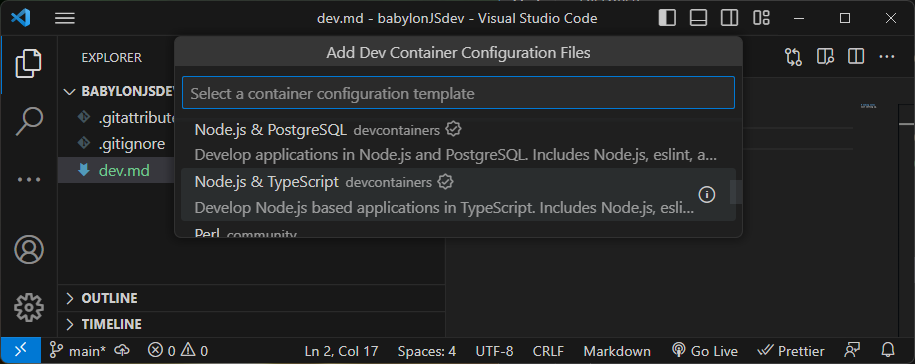
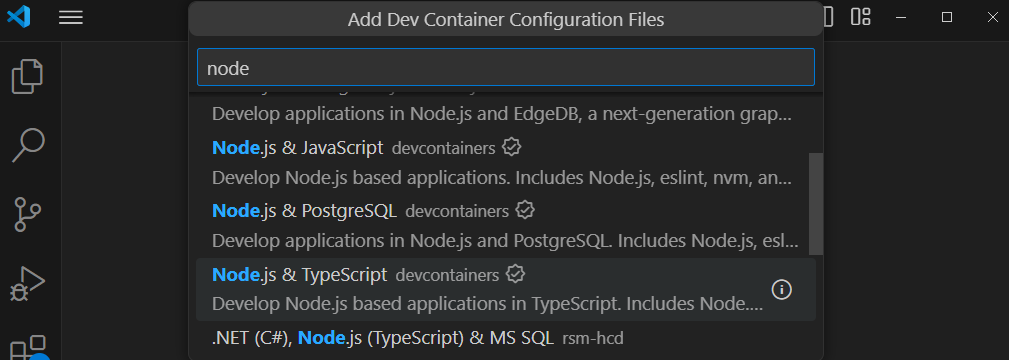
host added
fix change in defaul

diff --git a/Block_3/section_1d_node/devEnv.md b/Block_3/section_1d_node/devEnv.md
@@ -4,18 +4,20 @@ This is an adaptation of the tutorial [Using Vite with Babylon.js](https://doc.b
 
 ## Setting up the environment
 
-Before starting you will need docker desktop installed and running.  The Help|about tab shows version details.
+Before starting you will need docker desktop installed and running.  Current version is 4.31.1  
+
+The Help|about tab in Visual Studio Code shows version details.
 
 ```
-Version: 1.80.1 (user setup)
-Commit: 74f6148eb9ea00507ec113ec51c489d6ffb4b771
-Date: 2023-07-12T17:22:07.651Z
-Electron: 22.3.14
-ElectronBuildId: 21893604
-Chromium: 108.0.5359.215
-Node.js: 16.17.1
-V8: 10.8.168.25-electron.0
-OS: Windows_NT x64 10.0.22621
+Version: 1.90.1 (user setup)
+Commit: 611f9bfce64f25108829dd295f54a6894e87339d
+Date: 2024-06-11T21:01:24.262Z
+Electron: 29.4.0
+ElectronBuildId: 9593362
+Chromium: 122.0.6261.156
+Node.js: 20.9.0
+V8: 12.2.281.27-electron.0
+OS: Windows_NT x64 10.0.22631
 ```
 
 Then you will need VScode with the devContainers extension installed.
@@ -46,6 +48,9 @@ Click on Open Foldwer in Container. This will then open a browser dialog to choo
 
 ![choose folder](chooseFolder.png)
 
+Check that the devcontainer file will be saved in the workspace.  That makes the container easier to transfer to another machine.
+
+![lotcate devcontainer file](devcontainerLocation.png)
 
 On the first time of opening a prompt appears asking what type of container is needed  I chose 'Node & Typescript'
 
@@ -53,14 +58,14 @@ On the first time of opening a prompt appears asking what type of container is n
 
 Then you are asked to choose a node version, I have accepted the default version 20-bullseye.
 
-![node 20](bullseye.png)
+![node 22](bookworm.png)
 
 
 Then you are asked what additional features you need from a large checklist.  I selected none and pressed ok.
 
 ![additional features](addFeatures.png)
 
-The system then takes time to create the container image.  
+If you are asked to trust a file then do so. The system then takes time to create the container image.  
 
 ![reading container](readingConfig.png)
 
@@ -78,13 +83,13 @@ This shows the dev.md file which will be available as a place  tpo keep working 
 
 The .devContainer folder contains devcontainer.json which shows that the nature of the container is based on node and typescript.
 
-``` json
+```json
 // For format details, see https://aka.ms/devcontainer.json. For config options, see the
 // README at: https://github.com/devcontainers/templates/tree/main/src/typescript-node
 {
 	"name": "Node.js & TypeScript",
 	// Or use a Dockerfile or Docker Compose file. More info: https://containers.dev/guide/dockerfile
-	"image": "mcr.microsoft.com/devcontainers/typescript-node:1-20-bullseye"
+	"image": "mcr.microsoft.com/devcontainers/typescript-node:1-22-bookworm"
 
 	// Features to add to the dev container. More info: https://containers.dev/features.
 	// "features": {},
@@ -113,7 +118,7 @@ The node version can be checked by
 >node -v
 
 ```code
-v20.8.0
+v22.2.0
 ```
 
 The typescript version is checked by:
@@ -121,7 +126,7 @@ The typescript version is checked by:
 >tsc -v
 
 ```code
-Version 5.2.2
+Version 5.4.5
 ```
 
 Install vite with
@@ -131,25 +136,25 @@ Install vite with
 This led to a comment inviting an update to npm.
 
 ```
+added 10 packages in 1m
+
 3 packages are looking for funding
   run `npm fund` for details
-
-found 0 vulnerabilities
-npm notice 
-npm notice New major version of npm available! 9.8.1 -> 10.2.1
-npm notice Changelog: https://github.com/npm/cli/releases/tag/v10.2.1
-npm notice Run npm install -g npm@10.2.1 to update!
-npm notice 
+npm notice
+npm notice New minor version of npm available! 10.7.0 -> 10.8.1
+npm notice Changelog: https://github.com/npm/cli/releases/tag/v10.8.1
+npm notice To update run: npm install -g npm@10.8.1
+npm notice
 ```
 
 Folllow any advice to update.
 
-> npm install -g npm@10.2.1
+> npm install -g npm@10.8.1
 
 ```
-added 1 package in 4s
+added 1 package in 6s
 
-29 packages are looking for funding
+24 packages are looking for funding
   run `npm fund` for details
 ```
 
@@ -158,7 +163,7 @@ Once the loading process has completed a package.json file is crated in the baby
 ```json
 {
   "dependencies": {
-    "vite": "^4.4.4"
+    "vite": "^5.3.1"
   }
 }
 ```
@@ -168,19 +173,19 @@ Now install babylon core.
 >npm i -D @babylonjs/core
 
 ```
-added 1 package, and audited 10 packages in 22s
+added 2 packages, and audited 13 packages in 17s
 
 3 packages are looking for funding
   run `npm fund` for details
 
-found 0 vulnerabilities
+  found 0 vulnerabilities
 ```
 and also the inspector to make debugging easier.
 
 >npm i -D @babylonjs/inspector
 
 ```
-added 16 packages, and audited 26 packages in 39s
+added 15 packages, and audited 28 packages in 31s
 
 3 packages are looking for funding
   run `npm fund` for details
@@ -193,7 +198,7 @@ Also add the babylon loaders required to handle meshes.
 >npm i -D @babylonjs/loaders
 
 ```
-up to date, audited 26 packages in 3s
+up to date, audited 28 packages in 706ms
 
 3 packages are looking for funding
   run `npm fund` for details
@@ -205,18 +210,27 @@ Finally add the Havok physics engine which is newly introduced to Babylon Versio
 
 >npm i -D @babylonjs/havok
 
+```
+added 2 packages, and audited 30 packages in 3s
+
+3 packages are looking for funding
+  run `npm fund` for details
+
+found 0 vulnerabilities
+```
+
 When these are completed the package.json file will have been modified to show the babylon elements as devDependencies because of the -D flag used on installation.
 
 ```JSON
 {
   "dependencies": {
-    "vite": "^4.4.4"
+    "vite": "^5.3.1"
   },
   "devDependencies": {
-    "@babylonjs/core": "^6.12.5",
-    "@babylonjs/havok": "^1.2.1",
-    "@babylonjs/inspector": "^6.12.5",
-    "@babylonjs/loaders": "^6.12.5"
+    "@babylonjs/core": "^7.11.2",
+    "@babylonjs/havok": "^1.3.5",
+    "@babylonjs/inspector": "^7.11.2",
+    "@babylonjs/loaders": "^7.11.2"
   }
 }
 ```
@@ -231,8 +245,8 @@ This asks for permission to add packages:
 
 ```
 Need to install the following packages:
-  create-vite@4.4.0
-Ok to proceed? (y) 
+create-vite@5.2.3
+Ok to proceed? (y)
 ```
 
 > Enter y
@@ -281,6 +295,19 @@ Done. Now run:
   npm install
   npm run dev
 ```
+> cd testProj
+
+> npm install
+
+```
+added 11 packages, and audited 12 packages in 1m
+
+3 packages are looking for funding
+  run `npm fund` for details
+
+found 0 vulnerabilities
+```
+
 
 This creates a new folder with the name testProj and a starting structure:
 
@@ -301,19 +328,37 @@ Within the testProj folder is a new package.json file which includes the names o
     "preview": "vite preview"
   },
   "devDependencies": {
-    "typescript": "^5.0.2",
-    "vite": "^4.4.0"
+    "typescript": "^5.2.2",
+    "vite": "^5.2.0"
   }
 }
 ```
-To test this out the dependancies must be installed by the node package manager.
 
->cd testProj
+Due to changes in the default security settings it is now necessary to add --host to the dev script manually thus:
+```json
+{
+  "name": "testproj",
+  "private": true,
+  "version": "0.0.0",
+  "type": "module",
+  "scripts": {
+    "dev": "vite --host",
+    "build": "tsc && vite build",
+    "preview": "vite preview"
+  },
+  "devDependencies": {
+    "typescript": "^5.2.2",
+    "vite": "^5.2.0"
+  }
+}
+```
+
+To test this out the dependancies must be installed by the node package manager.
 
 >npm install
 
 ```code
-added 9 packages, and audited 10 packages in 10s
+added 1 package, and audited 13 packages in 3s
 
 3 packages are looking for funding
   run `npm fund` for details
@@ -324,11 +369,11 @@ found 0 vulnerabilities
 >npm run dev
 
 ```code
-  VITE v4.4.4  ready in 306 ms
+   VITE v5.3.1  ready in 774 ms
 
   ➜  Local:   http://localhost:5173/
   ➜  Network: use --host to expose
-  ➜  press h to show help
+  ➜  press h + enter to show help
   ```
 
   Look to the browser 
